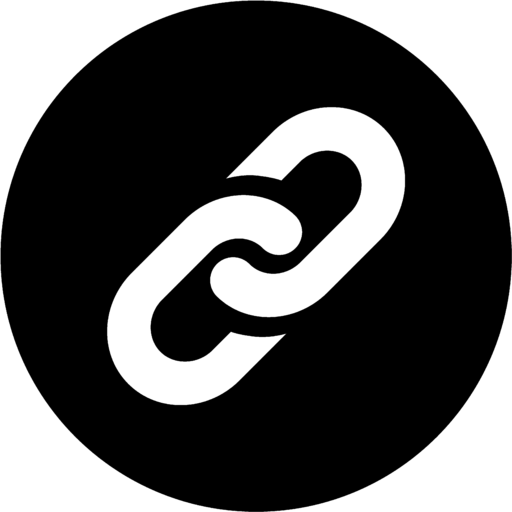
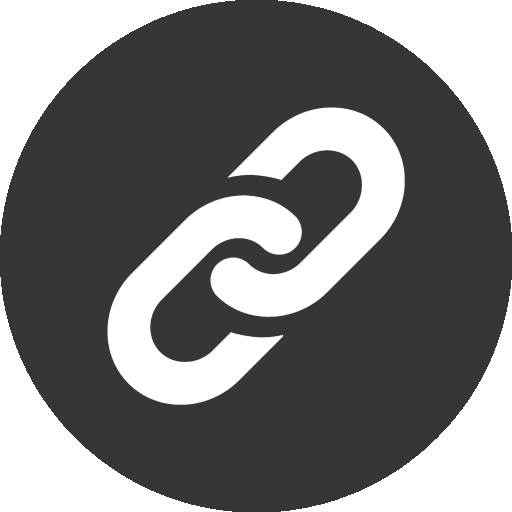
Black mode

diff --git a/css/default.scss b/css/default.scss
@@ -40,9 +40,9 @@ main {
 
 .container {
   background: $backgroundColor;
-  margin: 1%;
+  margin: 0.5%;
   padding: $profile-horizontal-margin;
-  width: 98%;
+  width: 99%;
   @include mobile {
     margin: 3%;
     width: 94%;
@@ -67,9 +67,12 @@ h1, h2, h3, h4, h5, h6 {
 
 h1 {
   font-size: 3.75em;
+  @include mobile {
+    font-size: 2.75em;
+  }
   font-style: italic;
-  text-shadow: 1px 1px 0 $textColor , -1px -1px 0 $textColor , 1px -1px 0 $textColor , -1px 1px 0 $textColor ;
-  color: $backgroundColor;
+  text-shadow: 1px 1px 0 $backgroundColor, -1px -1px 0 $backgroundColor, 1px -1px 0 $backgroundColor, -1px 1px 0 $backgroundColor;
+  color: $textColor;
   text-overflow: clip;
   a {
     color: inherit;
@@ -91,13 +94,13 @@ h4 {
 }
 
 a {
-  color: $blue;
-  // text-shadow: 2px 2px $primaryColor;
+  color: $primaryColor;
+  // text-shadow: .5px .6px $textColor;
 
   text-decoration: none;
 	cursor: pointer;
   &:hover, &:active {
-    color: $blue;
+    color: $primaryColor;
   }
 }
 
@@ -118,13 +121,13 @@ img {
 }
 
 .outline-text {
-  text-shadow: 1px 1px 0 $textColor , -1px -1px 0 $textColor , 1px -1px 0 $textColor , -1px 1px 0 $textColor ;
-  color: $backgroundColor;
+  text-shadow: 1px 1px 0 $backgroundColor , -1px -1px 0 $backgroundColor , 1px -1px 0 $backgroundColor , -1px 1px 0 $backgroundColor ;
+  color: $textColor;
   text-overflow: clip;
 }
 
 .outline-box {
-  box-shadow: 1px 1px 0 $textColor , -1px -1px 0 $textColor , 1px -1px 0 $textColor , -1px 1px 0 $textColor ;
+  box-shadow: 1px 1px 0 $backgroundColor , -1px -1px 0 $backgroundColor , 1px -1px 0 $backgroundColor , -1px 1px 0 $backgroundColor ;
 }
 
 // Fixes images in popup boxes from Google Translate
@@ -157,7 +160,7 @@ img {
 header {
   margin-bottom: 3%;
   .site-name {
-    text-shadow: 1px 1px 0 $textColor , -1px -1px 0 $textColor , 1px -1px 0 $textColor , -1px 1px 0 $textColor,-6px -3px 1px $primaryColor;
+    text-shadow: 1px 1px 0 $backgroundColor , -1px -1px 0 $backgroundColor , 1px -1px 0 $backgroundColor , -1px 1px 0 $backgroundColor,-6px -3px 1px $primaryColor;
   }
 }
 
@@ -180,13 +183,13 @@ nav {
 
   a {
     // margin-left: 20px;
-    color: $darkGray;
+    color: $primaryColor;
     text-align: right;
     font-weight: 300;
 
     @include mobile {
-      margin: 0 10px;
-      color: $blue;
+      // margin: 0 10px;
+      color: $primaryColor;
     }
   }
 }

diff --git a/index.html b/index.html
@@ -4,7 +4,7 @@ layout: default
 <link rel="stylesheet" href="{{ site.baseurl }}/css/index.css">
   <section class="introduction">
       <div class="profile-picture">
-        <img src="assets/images/me2.jpg" alt="photo of me">
+        <img src="assets/images/me2.png" alt="photo of me">
         <!-- <img class="me-drawing" src="assets/images/me.svg" alt="a drawing of me">
         <img class="arrow" src="assets/images/arrow.svg" alt="an arrow pointing the drawing of me">
         <span class="picture-description normal-text">me*</span>
@@ -25,7 +25,7 @@ layout: default
                <option class="widthTempOption"></option>
         </select>
          in <del>Montréal</del> Paris</br>
-        I develop & imagine 
+        I develop & imagine
         <select class="select-develop">
           <optgroup>
             <option value="mobile apps">mobile apps</option>
@@ -38,7 +38,7 @@ layout: default
         <select class="select-develop width">
                <option class="widthTempOption"></option>
         </select>
-          using 
+          using
             <select class="select-tools">
           <optgroup>
             <option value="unity">Unity</option>

diff --git a/css/index.scss b/css/index.scss
@@ -5,6 +5,7 @@
 .introduction {
   $description-width: 67%;
   $picture-width: 33%;
+  margin-bottom: 70px;
   display: flex;
   // margin-bottom:$bottom-margin;
   position: relative;
@@ -99,6 +100,7 @@
 
 .posts {
   .posts-title {
+    color: $textColor;
     margin-bottom:1em;
     background: $primaryColor;
     display: inline-block;
@@ -194,21 +196,21 @@
       .date {
         position: relative;
         // bottom: $post-offset-top;
-        right: $post-offset-left;
+        right: 13px;
         @include mobile {
           right: 2px;
         }
         float: right;
         z-index: 10;
-        top: -1.85em;
-        font-size: 2em;
-        line-height: 1.7em;
+        top: -2em;
+        font-size: 1.5em;
+        line-height: 1.3em;
         font-weight: bolder;
-        color: $backgroundColor;
+        color: $textColor;
         display: inline-block;
         padding: 0 0.2em;
 
-        background-color:$textColor;
+        background-color:$backgroundColor;
       }
     }
 

diff --git a/_includes/header.html b/_includes/header.html
@@ -7,7 +7,7 @@
     <a class="header-twitter" href="https://twitter.com/{{ site.footer-links.twitter }}" target="_blank"><img src="/assets/images/twitter-logo.png" alt="Twitter"></a>
     <a class="header-linkedin" href="https://www.linkedin.com/in/{{ site.footer-links.linkedin }}" target="_blank"><img src="/assets/images/linkedin-logo.png" alt="LinkedIn"></a>
     <a class="header-mail" href="mailto:{{ site.footer-links.email }}" target="_blank"><img src="/assets/images/mail-logo.png" alt="Mail"></a>
-    <a class="header-resume" href="assets/maximilienjourdain.pdf" target="_blank"><img src="/assets/images/link-logo.png" alt="Resume" style="filter: invert(80%);"></a>
+    <a class="header-resume" href="assets/maximilienjourdain.pdf" target="_blank"><img src="/assets/images/link.png" alt="Resume"></a>
 
   </nav>
 </header>

diff --git a/_sass/_variables.scss b/_sass/_variables.scss
@@ -4,9 +4,9 @@
 //
 
 // Colors
-$bodyBackgroundColor: #333;
-$backgroundColor: #fff;
-$textColor: #333;
+$bodyBackgroundColor: #fff;
+$backgroundColor: #222;
+$textColor: #fff;
 $black: #1a1a1a;
 $blue : blue;
 $darkerGray: #222;

diff --git a/_posts/2006-03-01-prose.md b/_posts/2006-03-01-prose.md
@@ -7,10 +7,10 @@ preview: /assets/images/articles/prose/prose.png
 type: project
 link: https://apps.apple.com/fr/app/prose/id1471965130?fbclid=IwAR287cTD1_hWPPe0uIQMbaoIlSFO6u6muK1euVovTcyVXuZcxZehDB0WP5w
 color:
-  r: 255
-  g: 26
-  b: 0
-description: In just 2.5 days, I developed the <a style="color:rgb(255,26,0)" href="https://prose.fm" target="_blank">Prose</a> radio app, for the iOS App Store. Developed in Swift, and designed by <a href="https://prose.fm" target="_blank" style="color:rgb(255,26,0)">Parade Studio</a>. iOS user I want you to <a href="https://apps.apple.com/fr/app/prose/id1471965130?fbclid=IwAR287cTD1_hWPPe0uIQMbaoIlSFO6u6muK1euVovTcyVXuZcxZehDB0WP5w" target="_blank" style="color:rgb(255,26,0)">download the app</a> !
+  r: 247
+  g: 145
+  b: 173
+description: In just 2.5 days, I developed the <a style="color:rgb(247, 145, 173)" href="https://prose.fm" target="_blank">Prose</a> radio app, for the iOS App Store. Developed in Swift, and designed by <a href="https://prose.fm" target="_blank" style="color:rgb(247, 145, 173)">Parade Studio</a>. iOS user I want you to <a href="https://apps.apple.com/fr/app/prose/id1471965130?fbclid=IwAR287cTD1_hWPPe0uIQMbaoIlSFO6u6muK1euVovTcyVXuZcxZehDB0WP5w" target="_blank" style="color:rgb(247, 145, 173)">download the app</a> !
 credits:
   - name: Parade Studio
     link: http://paradestud.io/
